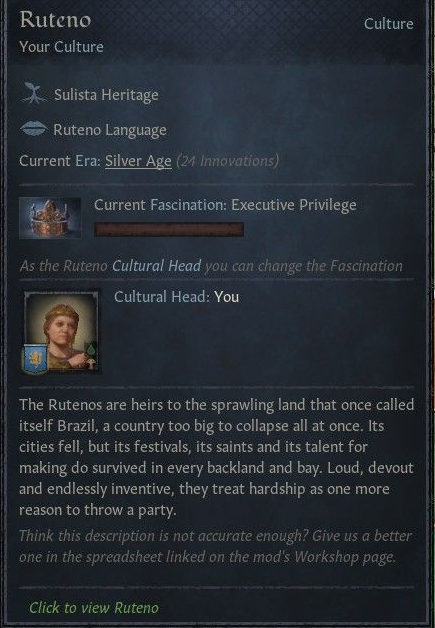
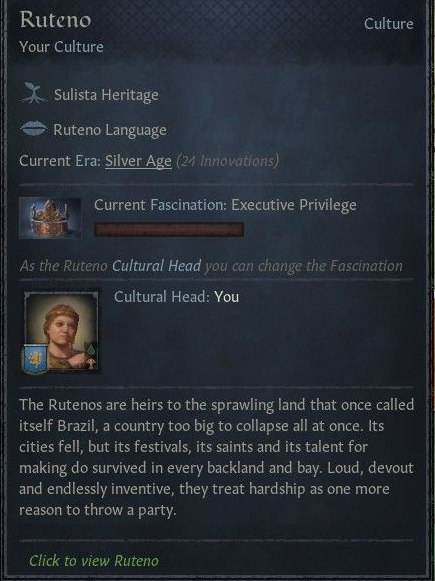
Show the "write a better one" line only in the culture window
Seen under every culture tooltip it pulled players out of the game. The
line now lives in its own block of the shared component; the tooltip
overrides it empty.

README: changelog (0.1.0, 0.2.0) and tooltip screenshot without the line.

diff --git a/README.md b/README.md
@@ -21,7 +21,7 @@ Hover over any culture, anywhere in the game (a character, a county, the culture
 - **Written descriptions win.** When a culture gets its own text, it replaces the generic one automatically, even in saved games.
 - **Safe for existing saves.** You can add the mod to a running campaign: every culture gets its description by the next January 1st.
 - **Write your own.** When you create a hybrid or divergent culture, you can write its description yourself: it replaces the generic one. As cultural head you can rewrite it at any time, as often as you like, with the **Edit Description** button of the culture window. Your text stays after your death, and your heir can edit it.
-- **Community-driven.** Every description ends with an invitation to write a better one (see below).
+- **Community-driven.** The culture window invites you to write a better description (see below). The tooltip stays clean.
 
 ## Help write the descriptions
 
@@ -107,6 +107,17 @@ docs/                    screenshots
 ```
 
 All `.txt`, `.yml` and `.gui` files are UTF-8 **with BOM** and use real tab characters, as CK3 requires. `.gitattributes` disables line-ending conversion so the files stay byte-identical.
+
+## Changelog
+
+**0.2.0**
+- Write your own culture's description: an event when you create a hybrid or divergent culture, and an **Edit Description** button in the culture window (culture head only, unlimited edits).
+- The invitation to improve a description now appears only in the culture window, not in every tooltip.
+- The engine's limit for typed text (`NGUI.RENAME_MAX_LENGTH`) is raised from 40 to 500.
+- First community descriptions: Barriga Verde, Hunsrickisch and Ancient Portuguese.
+
+**0.1.0**
+- First release: descriptions in the culture tooltip and the culture window, 45 regional generic texts, and the community spreadsheet.
 
 ## Credits
 
